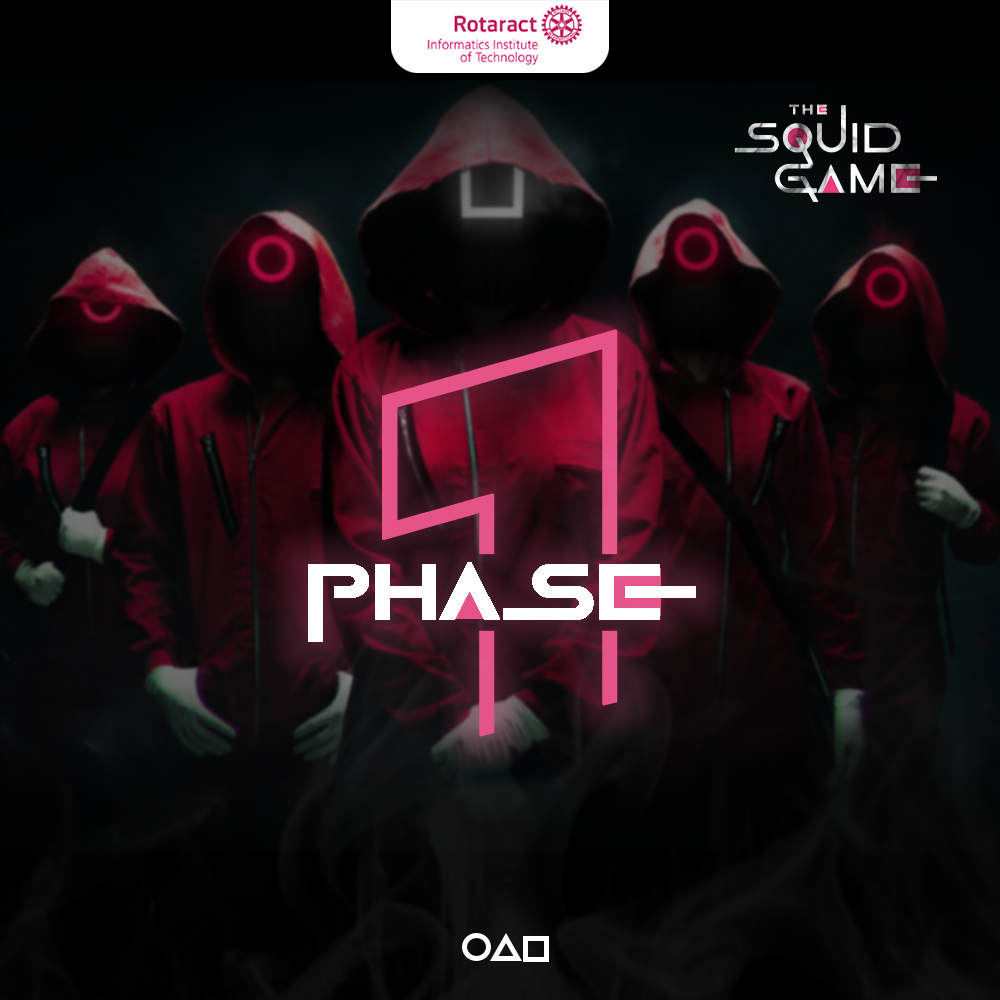
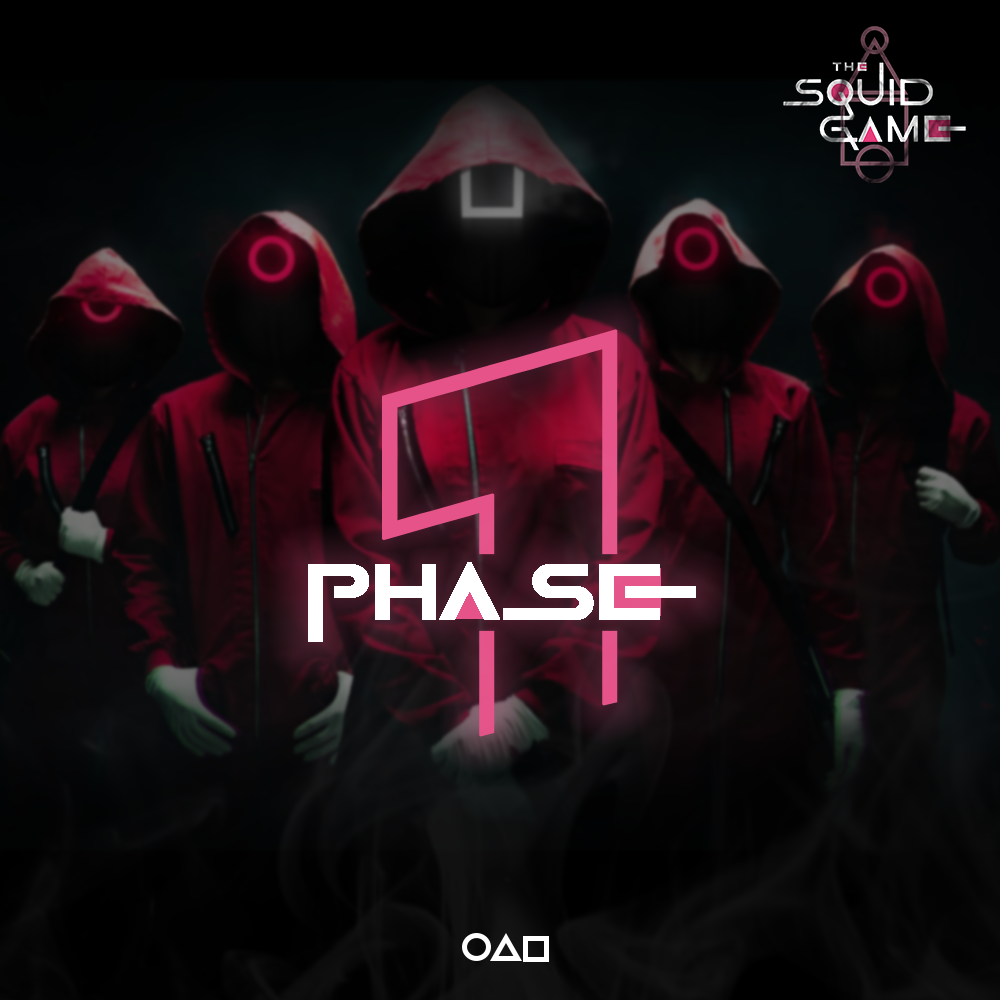
Version 2.6 commit

Changed region(s): [[0.744, 0.031, 0.961, 0.217], [0.372, 0.0, 0.62, 0.093]]

diff --git a/index.html b/index.html
@@ -102,7 +102,7 @@
                 <div class="countdown__container countdown-dir-change container grid">
                     <div class="countdown__img">
                         <div class="countdown__img-overlay">
-                            <img src="./packages/img/squid-game-phase-02.jpeg" alt="squid-game-phase-02"
+                            <img src="./packages/img/squid-game-phase-02.png" alt="squid-game-phase-02"
                                 class="countdown__img-one">
                         </div>
                     </div>
@@ -114,7 +114,7 @@
                 <div class="countdown__container container grid">
                     <div class="countdown__img">
                         <div class="countdown__img-overlay">
-                            <img src="./packages/img/squid-game-phase-03.jpg" alt="comming-soon-poster"
+                            <img src="./packages/img/squid-game-phase-03.png" alt="comming-soon-poster"
                                 class="countdown__img-one">
                         </div>
                     </div>

diff --git a/packages/css/styles.css b/packages/css/styles.css
@@ -91,7 +91,7 @@ SQUID GAME POSTLOADER SECTION
     0 18px 36px -18px rgba(0, 0, 0, 0.3), 0 -12px 36px -8px rgba(0, 0, 0, 0.025);
   width: 100%;
   border-radius: 0 6px 6px 0;
-  font-family: "Open Sans";
+  font-family: "Times New Roman";
   line-height: 20px;
   color: #ffffff;
   background: linear-gradient(
@@ -560,7 +560,6 @@ Squid Game part
 
 .countdown__img-one {
   width: 340px;
-  transform: scale(1.18);
 }
 
 .countdown__img-one {
@@ -569,7 +568,6 @@ Squid Game part
 
 .countdown__img-one:hover {
   transform: var(--img-scale);
-  transform: scale(1.3);
 }
 
 /*=============== ABOUT ===============*/
@@ -1167,6 +1165,7 @@ form .page .btns button.next {
 .footer__title,
 .footer__subtitle {
   font-size: var(--h3-font-size);
+  width: 100%;
 }
 
 .footer__title {
